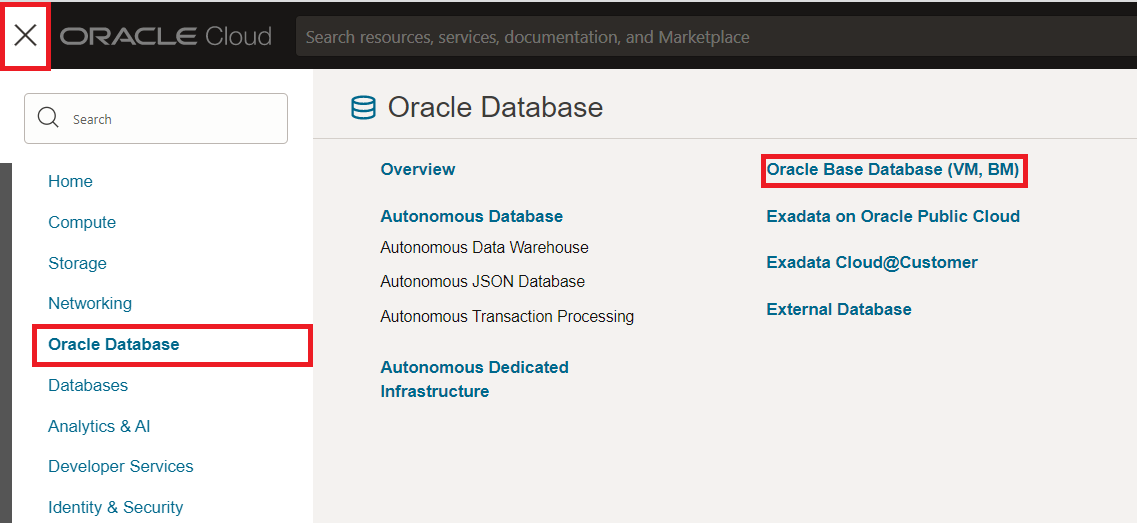
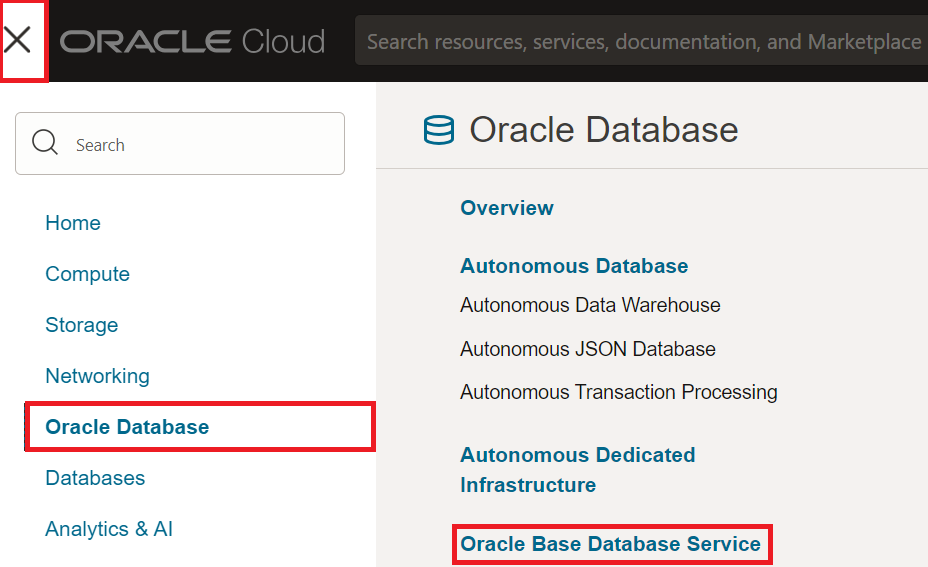
target-db-provision-changes

diff --git a/zdm-physical-offline/target-db-provision/target-db-provision.md b/zdm-physical-offline/target-db-provision/target-db-provision.md
@@ -125,7 +125,7 @@ In this lab
 
 1. Navigate to Oracle Base Database.
 
-   Click the **Navigation Menu** in the upper left, navigate to **Oracle Database** and then select **Oracle Base Database (VM,BM)**.
+   Click the **Navigation Menu** in the upper left, navigate to **Oracle Database** and then select **Oracle Base Database Service**.
 
    ![Image showing navigation to Oracle Base Database](./images/navigate-to-database.png)
 
@@ -251,9 +251,9 @@ In this lab
 
    If the target database is in Exadata Database Service on Dedicated Infrastructure or Exadata Cloud at Customer, then the target database **DB\_NAME** should be the same as the source database **DB\_NAME**.
 
-   If the target database is Oracle Base Database VM , then the target **DB\_NAME** can be the same as or different from the source database **DB\_NAME**.
+   If the target database is Oracle Base Database Service , then the target **DB\_NAME** can be the same as or different from the source database **DB\_NAME**.
 
-   Our target database is **Oracle Base Database VM** and we can specify a same or different name for **DB\_NAME**. 
+   Our target database is **Oracle Base Database Service** and we can specify a same or different name for **DB\_NAME**. 
 
    We will keep the same **DB\_NAME** as source database for this lab.
 
@@ -274,6 +274,11 @@ In this lab
    Select the appropriate compartment and select DB Image created in earlier lab as below.
 
    ![Image showing custom software images created earlier](./images/db-image.png)
+
+   Click on **Select** to finalise the selection as shown below.
+
+   ![Image showing custom software images created earlier](./images/db-image-selection-final.png)
+
 
 13. Provide SYS password.
 
